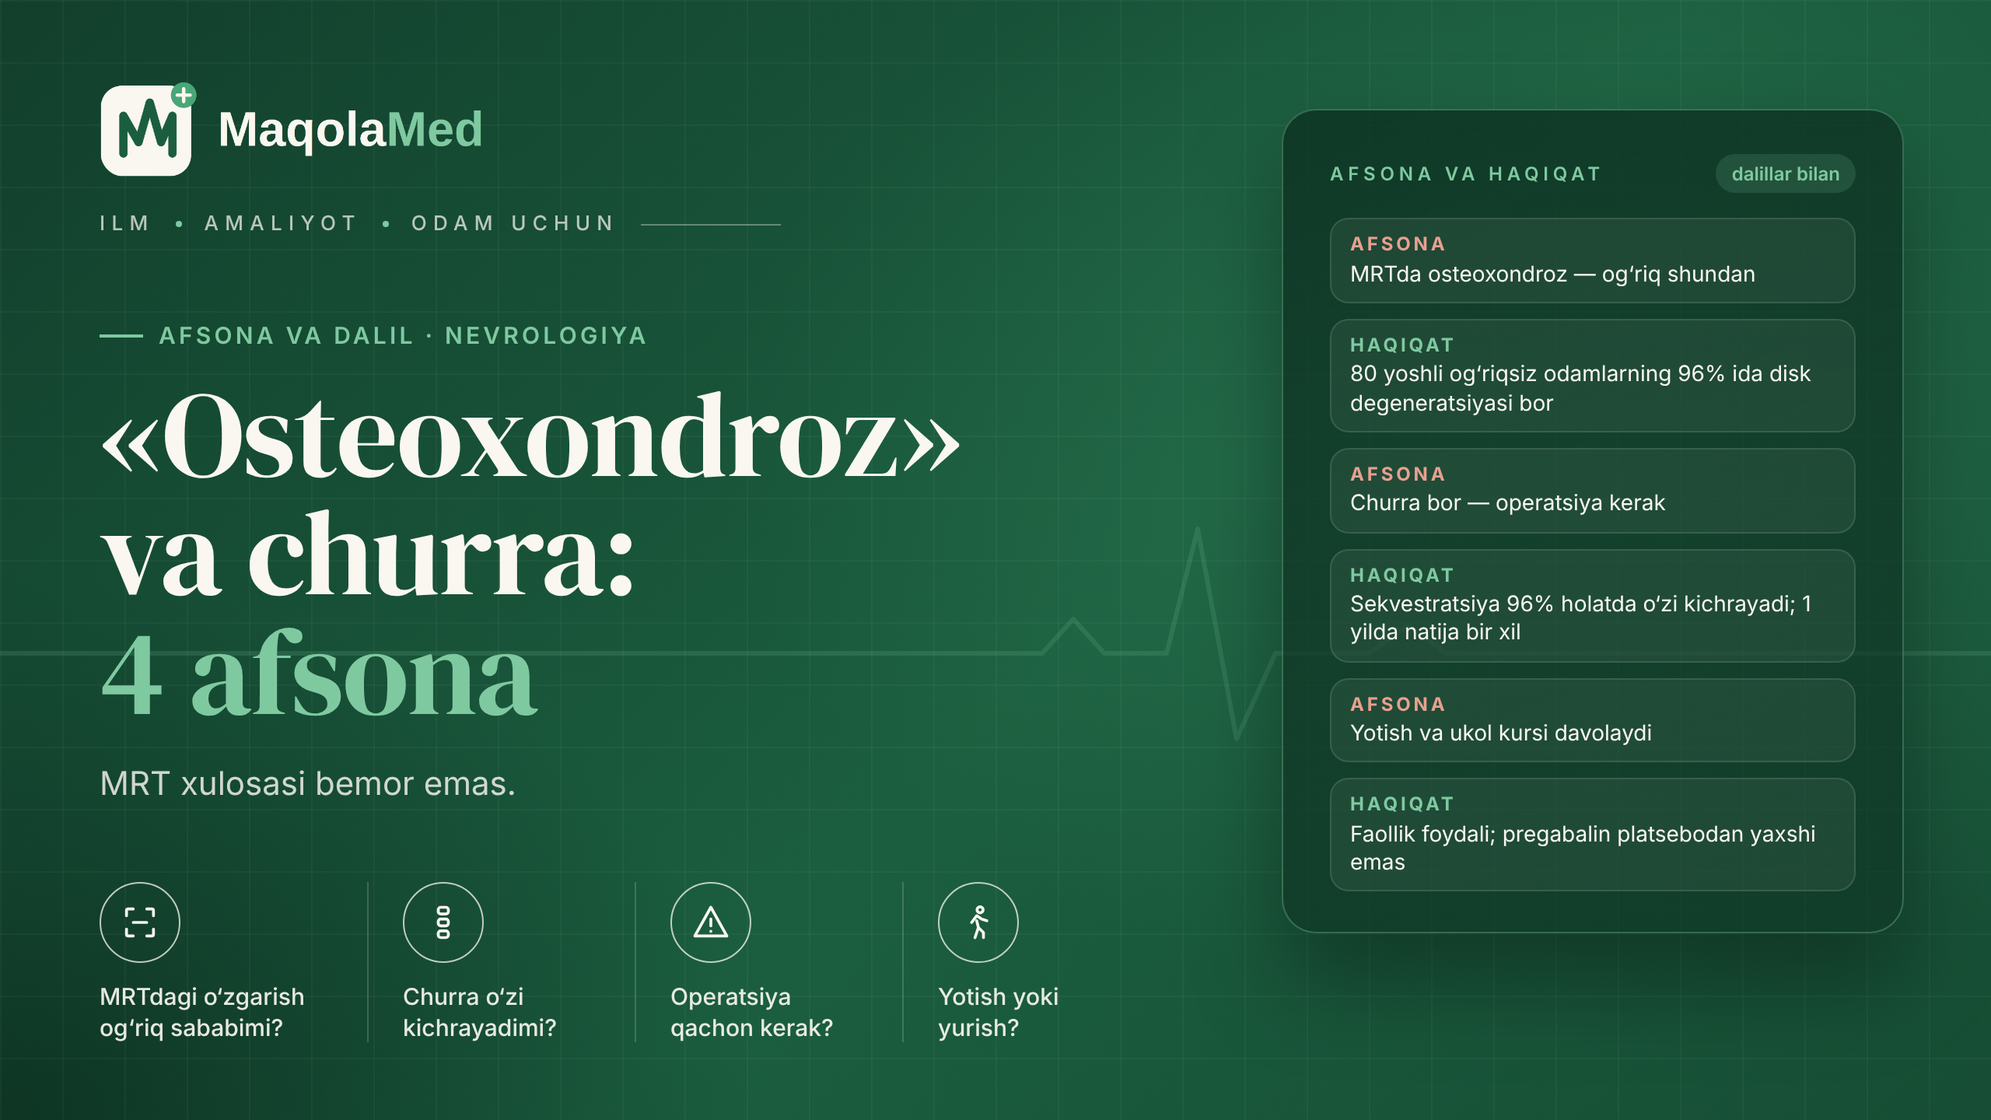
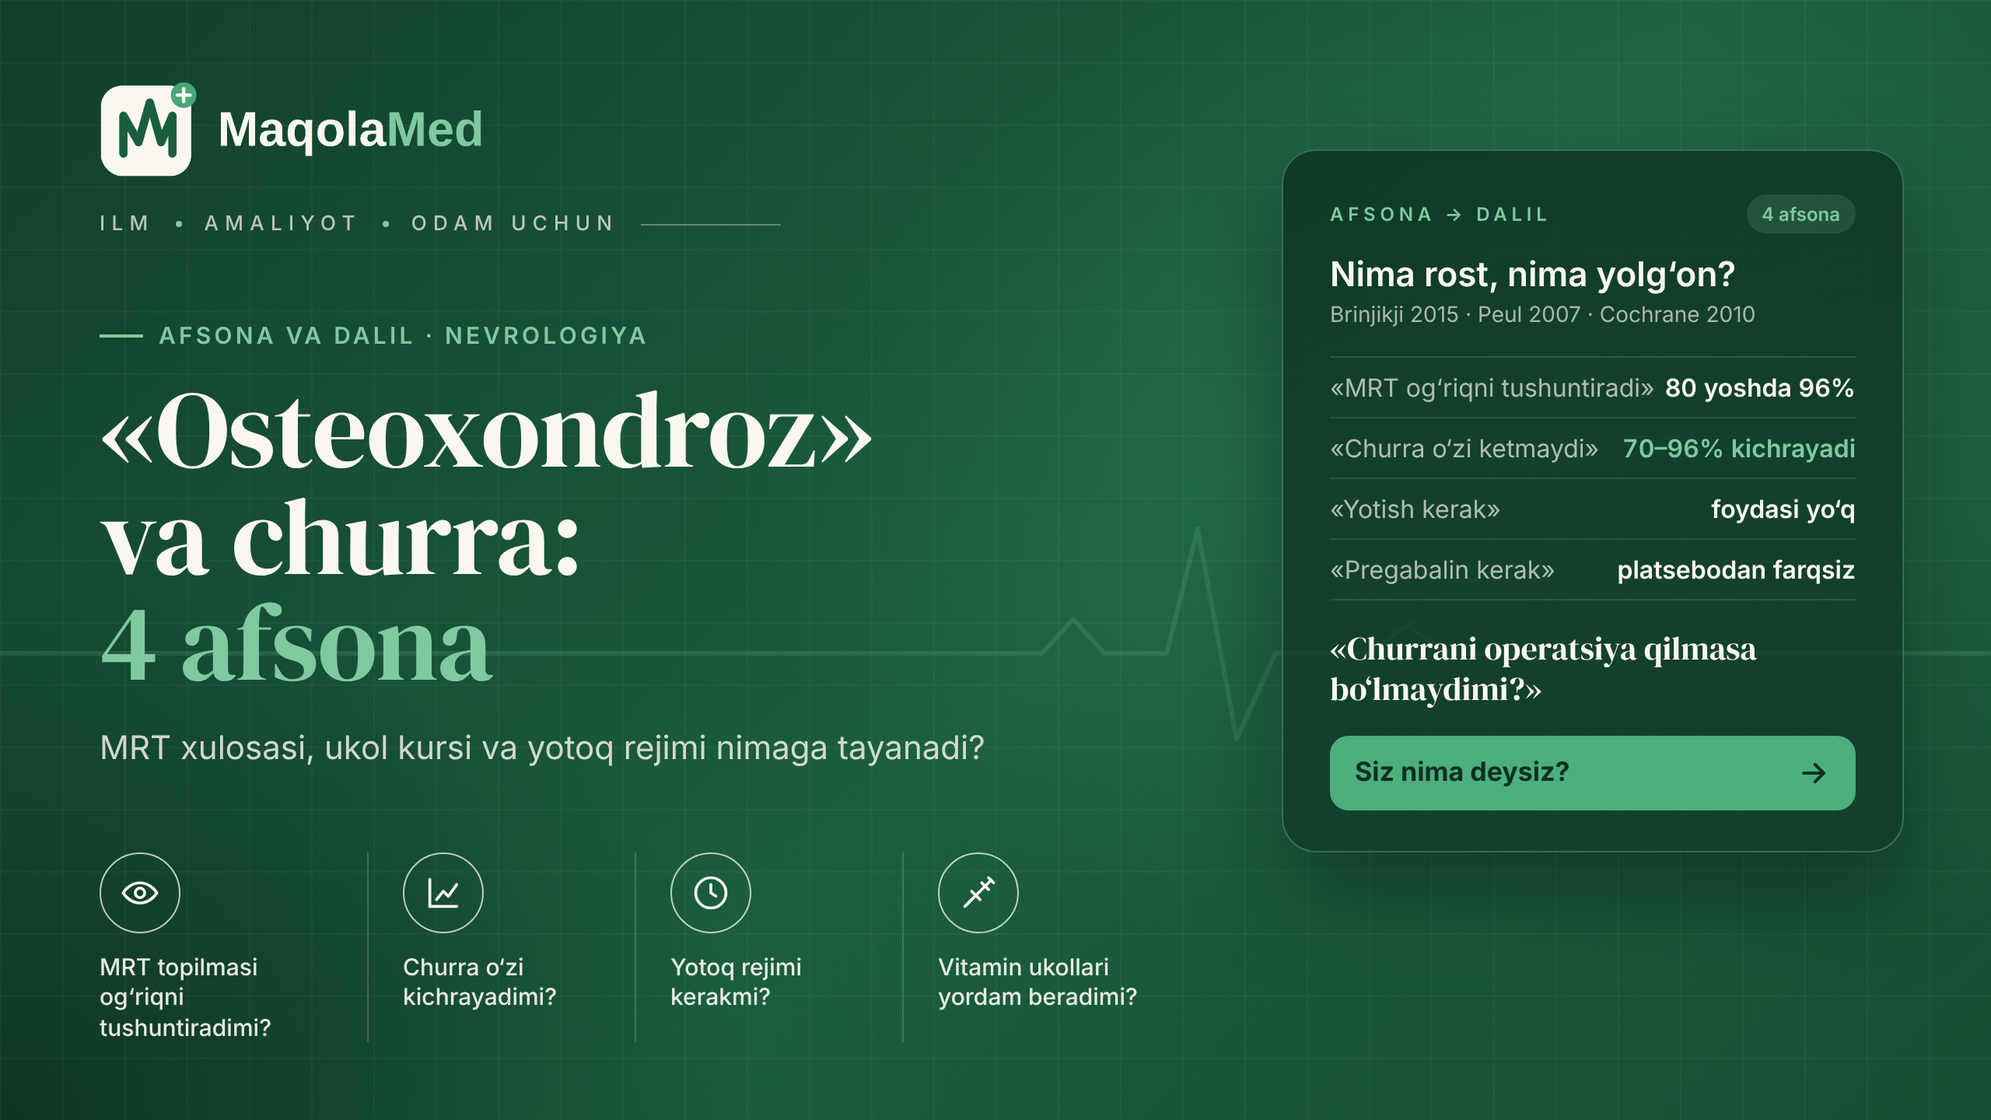
21-dekabr maqolasi qayta yozildi (v2, humanizer): osteoxondroz va churra — muqovalar, 1 rasm

diff --git a/_manba/2026-12-21/muqova-instagram-4x5.html b/_manba/2026-12-21/muqova-instagram-4x5.html
@@ -1,0 +1,87 @@
+<!doctype html>
+<html lang="uz">
+<head><base href="file:///home/claude/maqolamed-rasmlar/_shablon/">
+<meta charset="utf-8">
+<style>
+@font-face{font-family:"DM Serif Display";src:url("fonts/dm-serif-display-latin-400-normal.woff2") format("woff2");}
+@font-face{font-family:"DM Serif Display";src:url("fonts/dm-serif-display-latin-ext-400-normal.woff2") format("woff2");unicode-range:U+0100-024F,U+1E00-1EFF;}
+:root{
+  --emerald:#1B5E3F; --deep:#0D3122; --cream:#FAF7F0; --mint:#7FC9A0; --green:#4CAF7D;
+}
+*{margin:0;padding:0;box-sizing:border-box}
+html,body{width:1280px;height:720px;overflow:hidden;background:var(--deep)}
+.cover{position:relative;width:1280px;height:720px;overflow:hidden;font-family:"Inter",sans-serif;color:var(--cream);
+  background:
+    radial-gradient(900px 600px at 78% 40%, rgba(76,175,125,.22), transparent 60%),
+    radial-gradient(700px 500px at 0% 100%, rgba(13,49,34,.9), transparent 70%),
+    linear-gradient(135deg,#123F2C 0%, #1B5E3F 55%, #164D34 100%);}
+.grid{position:absolute;inset:0;background-image:
+    linear-gradient(rgba(250,247,240,.035) 1px,transparent 1px),
+    linear-gradient(90deg,rgba(250,247,240,.035) 1px,transparent 1px);
+  background-size:40px 40px;}
+.ekg{position:absolute;left:0;top:300px;width:1280px;height:200px;opacity:.16}
+.left{position:absolute;left:64px;top:52px;width:690px}
+.brand{display:flex;align-items:center;gap:28px}
+.brand img{height:62px;display:block}
+.tag{display:flex;align-items:center;gap:14px;font-size:13px;letter-spacing:.32em;color:rgba(250,247,240,.72);font-weight:500}
+.tag i{width:4px;height:4px;border-radius:50%;background:var(--mint);display:inline-block}
+.tag .line{width:90px;height:1px;background:rgba(250,247,240,.35)}
+.kicker{margin-top:54px;display:inline-flex;align-items:center;gap:10px;font-size:15px;font-weight:600;letter-spacing:.14em;text-transform:uppercase;color:var(--mint)}
+.kicker span{display:inline-block;width:28px;height:2px;background:var(--mint)}
+h1{margin-top:16px;font-family:"DM Serif Display",serif;font-weight:400;font-size:78px;line-height:.98;letter-spacing:-.01em;color:var(--cream)}
+h1 em{font-style:normal;color:var(--mint)}
+.sub{margin-top:22px;font-size:21px;color:rgba(250,247,240,.82);font-weight:400}
+.points{position:absolute;left:64px;bottom:50px;display:flex;gap:0}
+.pt{width:172px;padding-right:18px;display:flex;flex-direction:column;align-items:flex-start;gap:12px}
+.pt + .pt{padding-left:22px;border-left:1px solid rgba(250,247,240,.18)}
+.ic{width:52px;height:52px;border-radius:50%;border:1.6px solid rgba(250,247,240,.75);display:grid;place-items:center}
+.ic svg{width:26px;height:26px;stroke:var(--cream);fill:none;stroke-width:1.7;stroke-linecap:round;stroke-linejoin:round}
+.pt p{font-size:15px;line-height:1.3;color:rgba(250,247,240,.92);font-weight:500}
+.card{position:absolute;right:56px;top:96px;width:400px;border-radius:22px;padding:28px 30px 26px;
+  background:linear-gradient(160deg,rgba(13,49,34,.82),rgba(13,49,34,.62));
+  border:1px solid rgba(127,201,160,.35);box-shadow:0 30px 60px rgba(0,0,0,.35)}
+.card .ch{display:flex;justify-content:space-between;align-items:center}
+.card .lbl{font-size:12px;letter-spacing:.24em;font-weight:600;color:var(--mint)}
+.card .pill{font-size:12px;font-weight:600;padding:5px 10px;border-radius:999px;background:rgba(127,201,160,.16);color:var(--mint)}
+.card h3{margin-top:14px;font-size:22px;font-weight:600}
+.card h3 small{display:block;margin-top:4px;font-size:14px;font-weight:400;color:rgba(250,247,240,.65)}
+.rows{margin-top:18px;border-top:1px solid rgba(250,247,240,.14)}
+.row{display:flex;justify-content:space-between;padding:9px 0;border-bottom:1px solid rgba(250,247,240,.10);font-size:16px}
+.row span:first-child{color:rgba(250,247,240,.68)}
+.row span:last-child{font-weight:600;font-variant-numeric:tabular-nums}
+.row .ok{color:var(--mint)}
+.quote{margin-top:18px;font-family:"DM Serif Display",serif;font-size:21px;line-height:1.25;color:var(--cream)}
+.ask{margin-top:16px;display:flex;align-items:center;justify-content:space-between;padding:13px 16px;border-radius:12px;background:var(--green);color:#0D3122;font-weight:700;font-size:17px}
+.ask svg{width:22px;height:22px;stroke:#0D3122;fill:none;stroke-width:2.2;stroke-linecap:round;stroke-linejoin:round}
+
+html,body{width:1080px;height:1350px}
+.cover{width:1080px;height:1350px}
+.ekg{top:525px;width:1080px}
+.left{left:72px;top:64px;width:940px}
+.brand img{height:72px}
+h1{font-size:96px;margin-top:18px}
+.kicker{margin-top:56px;font-size:17px}
+.sub{font-size:24px}
+.card{left:72px;right:72px;top:auto;bottom:250px;width:auto;padding:30px 34px}
+.rows{display:grid;grid-template-columns:1fr 1fr;column-gap:40px}
+.quote{font-size:24px}
+.points{left:72px;right:72px;bottom:60px}
+.pt{width:auto;flex:1}
+.pt p{font-size:17px}
+
+
+
+h1{font-size:96px}
+</style>
+</head>
+<body><div class="cover"><div class="grid"></div>
+<svg class="ekg" viewBox="0 0 1280 200" preserveAspectRatio="none"><polyline fill="none" stroke="#7FC9A0" stroke-width="3" stroke-linejoin="round" stroke-linecap="round" points="0,120 640,120 670,120 690,98 710,120 750,120 770,40 795,175 820,120 880,120 905,102 930,120 1280,120"/></svg>
+<div class="left"><div class="brand"><img src="logo_dark_bg.png" alt="MaqolaMed"></div>
+<div class="tag" style="margin-top:22px"><span>ILM</span><i></i><span>AMALIYOT</span><i></i><span>ODAM UCHUN</span><span class="line"></span></div>
+<div class="kicker"><span></span>Afsona va dalil · Nevrologiya</div>
+<h1>«Osteoxondroz»<br>va churra:<br><em>4 afsona</em></h1>
+<div class="sub">MRT xulosasi, ukol kursi va yotoq rejimi nimaga tayanadi?</div></div>
+<div class="points"><div class="pt"><div class="ic"><svg viewBox="0 0 24 24"><path d="M2 12s3.5-6 10-6 10 6 10 6-3.5 6-10 6S2 12 2 12z"/><circle cx="12" cy="12" r="2.8"/></svg></div><p>MRT topilmasi og‘riqni tushuntiradimi?</p></div><div class="pt"><div class="ic"><svg viewBox="0 0 24 24"><path d="M4 20V4"/><path d="M4 20h16"/><path d="M8 16l4-5 3 3 5-7"/></svg></div><p>Churra o‘zi kichrayadimi?</p></div><div class="pt"><div class="ic"><svg viewBox="0 0 24 24"><circle cx="12" cy="12" r="9"/><path d="M12 7v5l3 2"/></svg></div><p>Yotoq rejimi kerakmi?</p></div><div class="pt"><div class="ic"><svg viewBox="0 0 24 24"><path d="M18 3l3 3"/><path d="M19.5 4.5l-9 9"/><path d="M14 6l4 4"/><path d="M10.5 13.5l-4 4"/><path d="M6.5 17.5L4 20"/><path d="M8 11l5 5"/></svg></div><p>Vitamin ukollari yordam beradimi?</p></div></div>
+<div class="card"><div class="ch"><span class="lbl">AFSONA → DALIL</span><span class="pill">4 afsona</span></div>
+<h3>Nima rost, nima yolg‘on?<small>Brinjikji 2015 · Peul 2007 · Cochrane 2010</small></h3><div class="rows"><div class="row"><span>«MRT og‘riqni tushuntiradi»</span><span class="">80 yoshda 96%</span></div><div class="row"><span>«Churra o‘zi ketmaydi»</span><span class="ok">70–96% kichrayadi</span></div><div class="row"><span>«Yotish kerak»</span><span class="">foydasi yo‘q</span></div><div class="row"><span>«Pregabalin kerak»</span><span class="">platsebodan farqsiz</span></div></div><div class="quote">«Churrani operatsiya qilmasa bo‘lmaydimi?»</div><div class="ask">Siz nima deysiz?<svg viewBox="0 0 24 24"><path d="M5 12h14"/><path d="M13 6l6 6-6 6"/></svg></div></div>
+</div></body></html>

diff --git a/_manba/2026-12-21/muqova-16x9.html b/_manba/2026-12-21/muqova-16x9.html
@@ -1,0 +1,70 @@
+<!doctype html>
+<html lang="uz">
+<head><base href="file:///home/claude/maqolamed-rasmlar/_shablon/">
+<meta charset="utf-8">
+<style>
+@font-face{font-family:"DM Serif Display";src:url("fonts/dm-serif-display-latin-400-normal.woff2") format("woff2");}
+@font-face{font-family:"DM Serif Display";src:url("fonts/dm-serif-display-latin-ext-400-normal.woff2") format("woff2");unicode-range:U+0100-024F,U+1E00-1EFF;}
+:root{
+  --emerald:#1B5E3F; --deep:#0D3122; --cream:#FAF7F0; --mint:#7FC9A0; --green:#4CAF7D;
+}
+*{margin:0;padding:0;box-sizing:border-box}
+html,body{width:1280px;height:720px;overflow:hidden;background:var(--deep)}
+.cover{position:relative;width:1280px;height:720px;overflow:hidden;font-family:"Inter",sans-serif;color:var(--cream);
+  background:
+    radial-gradient(900px 600px at 78% 40%, rgba(76,175,125,.22), transparent 60%),
+    radial-gradient(700px 500px at 0% 100%, rgba(13,49,34,.9), transparent 70%),
+    linear-gradient(135deg,#123F2C 0%, #1B5E3F 55%, #164D34 100%);}
+.grid{position:absolute;inset:0;background-image:
+    linear-gradient(rgba(250,247,240,.035) 1px,transparent 1px),
+    linear-gradient(90deg,rgba(250,247,240,.035) 1px,transparent 1px);
+  background-size:40px 40px;}
+.ekg{position:absolute;left:0;top:300px;width:1280px;height:200px;opacity:.16}
+.left{position:absolute;left:64px;top:52px;width:690px}
+.brand{display:flex;align-items:center;gap:28px}
+.brand img{height:62px;display:block}
+.tag{display:flex;align-items:center;gap:14px;font-size:13px;letter-spacing:.32em;color:rgba(250,247,240,.72);font-weight:500}
+.tag i{width:4px;height:4px;border-radius:50%;background:var(--mint);display:inline-block}
+.tag .line{width:90px;height:1px;background:rgba(250,247,240,.35)}
+.kicker{margin-top:54px;display:inline-flex;align-items:center;gap:10px;font-size:15px;font-weight:600;letter-spacing:.14em;text-transform:uppercase;color:var(--mint)}
+.kicker span{display:inline-block;width:28px;height:2px;background:var(--mint)}
+h1{margin-top:16px;font-family:"DM Serif Display",serif;font-weight:400;font-size:78px;line-height:.98;letter-spacing:-.01em;color:var(--cream)}
+h1 em{font-style:normal;color:var(--mint)}
+.sub{margin-top:22px;font-size:21px;color:rgba(250,247,240,.82);font-weight:400}
+.points{position:absolute;left:64px;bottom:50px;display:flex;gap:0}
+.pt{width:172px;padding-right:18px;display:flex;flex-direction:column;align-items:flex-start;gap:12px}
+.pt + .pt{padding-left:22px;border-left:1px solid rgba(250,247,240,.18)}
+.ic{width:52px;height:52px;border-radius:50%;border:1.6px solid rgba(250,247,240,.75);display:grid;place-items:center}
+.ic svg{width:26px;height:26px;stroke:var(--cream);fill:none;stroke-width:1.7;stroke-linecap:round;stroke-linejoin:round}
+.pt p{font-size:15px;line-height:1.3;color:rgba(250,247,240,.92);font-weight:500}
+.card{position:absolute;right:56px;top:96px;width:400px;border-radius:22px;padding:28px 30px 26px;
+  background:linear-gradient(160deg,rgba(13,49,34,.82),rgba(13,49,34,.62));
+  border:1px solid rgba(127,201,160,.35);box-shadow:0 30px 60px rgba(0,0,0,.35)}
+.card .ch{display:flex;justify-content:space-between;align-items:center}
+.card .lbl{font-size:12px;letter-spacing:.24em;font-weight:600;color:var(--mint)}
+.card .pill{font-size:12px;font-weight:600;padding:5px 10px;border-radius:999px;background:rgba(127,201,160,.16);color:var(--mint)}
+.card h3{margin-top:14px;font-size:22px;font-weight:600}
+.card h3 small{display:block;margin-top:4px;font-size:14px;font-weight:400;color:rgba(250,247,240,.65)}
+.rows{margin-top:18px;border-top:1px solid rgba(250,247,240,.14)}
+.row{display:flex;justify-content:space-between;padding:9px 0;border-bottom:1px solid rgba(250,247,240,.10);font-size:16px}
+.row span:first-child{color:rgba(250,247,240,.68)}
+.row span:last-child{font-weight:600;font-variant-numeric:tabular-nums}
+.row .ok{color:var(--mint)}
+.quote{margin-top:18px;font-family:"DM Serif Display",serif;font-size:21px;line-height:1.25;color:var(--cream)}
+.ask{margin-top:16px;display:flex;align-items:center;justify-content:space-between;padding:13px 16px;border-radius:12px;background:var(--green);color:#0D3122;font-weight:700;font-size:17px}
+.ask svg{width:22px;height:22px;stroke:#0D3122;fill:none;stroke-width:2.2;stroke-linecap:round;stroke-linejoin:round}
+
+h1{font-size:70px}
+</style>
+</head>
+<body><div class="cover"><div class="grid"></div>
+<svg class="ekg" viewBox="0 0 1280 200" preserveAspectRatio="none"><polyline fill="none" stroke="#7FC9A0" stroke-width="3" stroke-linejoin="round" stroke-linecap="round" points="0,120 640,120 670,120 690,98 710,120 750,120 770,40 795,175 820,120 880,120 905,102 930,120 1280,120"/></svg>
+<div class="left"><div class="brand"><img src="logo_dark_bg.png" alt="MaqolaMed"></div>
+<div class="tag" style="margin-top:22px"><span>ILM</span><i></i><span>AMALIYOT</span><i></i><span>ODAM UCHUN</span><span class="line"></span></div>
+<div class="kicker"><span></span>Afsona va dalil · Nevrologiya</div>
+<h1>«Osteoxondroz»<br>va churra:<br><em>4 afsona</em></h1>
+<div class="sub">MRT xulosasi, ukol kursi va yotoq rejimi nimaga tayanadi?</div></div>
+<div class="points"><div class="pt"><div class="ic"><svg viewBox="0 0 24 24"><path d="M2 12s3.5-6 10-6 10 6 10 6-3.5 6-10 6S2 12 2 12z"/><circle cx="12" cy="12" r="2.8"/></svg></div><p>MRT topilmasi og‘riqni tushuntiradimi?</p></div><div class="pt"><div class="ic"><svg viewBox="0 0 24 24"><path d="M4 20V4"/><path d="M4 20h16"/><path d="M8 16l4-5 3 3 5-7"/></svg></div><p>Churra o‘zi kichrayadimi?</p></div><div class="pt"><div class="ic"><svg viewBox="0 0 24 24"><circle cx="12" cy="12" r="9"/><path d="M12 7v5l3 2"/></svg></div><p>Yotoq rejimi kerakmi?</p></div><div class="pt"><div class="ic"><svg viewBox="0 0 24 24"><path d="M18 3l3 3"/><path d="M19.5 4.5l-9 9"/><path d="M14 6l4 4"/><path d="M10.5 13.5l-4 4"/><path d="M6.5 17.5L4 20"/><path d="M8 11l5 5"/></svg></div><p>Vitamin ukollari yordam beradimi?</p></div></div>
+<div class="card"><div class="ch"><span class="lbl">AFSONA → DALIL</span><span class="pill">4 afsona</span></div>
+<h3>Nima rost, nima yolg‘on?<small>Brinjikji 2015 · Peul 2007 · Cochrane 2010</small></h3><div class="rows"><div class="row"><span>«MRT og‘riqni tushuntiradi»</span><span class="">80 yoshda 96%</span></div><div class="row"><span>«Churra o‘zi ketmaydi»</span><span class="ok">70–96% kichrayadi</span></div><div class="row"><span>«Yotish kerak»</span><span class="">foydasi yo‘q</span></div><div class="row"><span>«Pregabalin kerak»</span><span class="">platsebodan farqsiz</span></div></div><div class="quote">«Churrani operatsiya qilmasa bo‘lmaydimi?»</div><div class="ask">Siz nima deysiz?<svg viewBox="0 0 24 24"><path d="M5 12h14"/><path d="M13 6l6 6-6 6"/></svg></div></div>
+</div></body></html>

diff --git a/_manba/2026-12-21/1-rasm.html b/_manba/2026-12-21/1-rasm.html
@@ -1,0 +1,64 @@
+<!doctype html><html lang="uz"><head><meta charset="utf-8"><base href="file:///home/claude/maqolamed-rasmlar/_shablon/">
+<style>
+@font-face{font-family:"DM Serif Display";src:url("fonts/dm-serif-display-latin-400-normal.woff2") format("woff2");}
+@font-face{font-family:"DM Serif Display";src:url("fonts/dm-serif-display-latin-ext-400-normal.woff2") format("woff2");unicode-range:U+0100-024F,U+1E00-1EFF;}
+:root{--emerald:#1B5E3F;--deep:#0D3122;--cream:#FAF7F0;--mint:#7FC9A0;--green:#4CAF7D;--ink:#17322A;--muted:#5C6F66;--amber:#C98A2E;--amberbg:#FBF1E1;--red:#B5513F;--redbg:#F8E7E2;--tint:#E6F3EC}
+*{margin:0;padding:0;box-sizing:border-box}
+html,body{width:1280px;height:var(--H,900px);background:var(--cream);overflow:hidden}
+.fig{position:relative;width:1280px;height:var(--H,900px);padding:44px 56px;font-family:"Inter",sans-serif;color:var(--ink)}
+.top{display:flex;justify-content:space-between;align-items:flex-start;margin-bottom:28px}
+h1{font-family:"DM Serif Display",serif;font-weight:400;font-size:40px;line-height:1.05;color:var(--deep)}
+h1 em{font-style:normal;color:var(--green)}
+.brand{display:flex;align-items:center;gap:10px;font-weight:700;font-size:20px;color:var(--emerald)}
+.brand img{height:34px}.brand b{color:var(--green);font-weight:700}
+table{width:100%;border-collapse:separate;border-spacing:0 8px;font-size:16px;line-height:1.35}
+th{text-align:left;font-size:12px;letter-spacing:.14em;text-transform:uppercase;color:var(--muted);padding:0 18px 2px;font-weight:700}
+td{background:#fff;padding:13px 18px;vertical-align:middle}
+td:first-child{border-radius:12px 0 0 12px;font-weight:700;color:var(--deep)}
+td:last-child{border-radius:0 12px 12px 0}
+td.new{background:var(--tint)} td.same{background:#F1EEE6;color:var(--muted)}
+td.warn{background:var(--redbg)}
+.badge{display:inline-block;font-size:11px;font-weight:700;letter-spacing:.08em;padding:4px 9px;border-radius:999px;margin-right:8px;vertical-align:1px}
+.b-new{background:var(--emerald);color:var(--cream)} .b-same{background:#E2DED3;color:var(--muted)} .b-red{background:var(--red);color:#fff} .b-amb{background:var(--amber);color:#fff}
+.muted{color:var(--muted)}
+.node{border-radius:14px;padding:14px 18px;font-size:16px;line-height:1.38}
+.node b{display:block;font-size:17px;margin-bottom:3px}
+.n-dark{background:var(--emerald);color:var(--cream)} .n-deep{background:var(--deep);color:var(--cream)}
+.n-white{background:#fff;border:1.5px solid #BFDCCB} .n-amb{background:#fff;border:1.5px solid #EBD3A9} .n-red{background:var(--redbg);border:1.5px solid #E8C3BA}
+.tagc{display:inline-block;font-size:12px;font-weight:700;letter-spacing:.12em;text-transform:uppercase;padding:6px 12px;border-radius:999px}
+.t-g{background:#DDEFE5;color:var(--emerald)} .t-a{background:var(--amberbg);color:#8A5A14} .t-r{background:var(--redbg);color:var(--red)}
+.note{position:absolute;left:56px;right:56px;bottom:40px;padding:14px 18px;border-radius:12px;background:#EEF2EE;font-size:15px;line-height:1.4}
+.note b{color:var(--deep)}
+.src{position:absolute;right:56px;bottom:12px;font-size:12px;color:var(--muted)}
+.arrow{stroke:var(--emerald);stroke-width:2.2;fill:none}
+</style></head><body><style>:root{--H:640px}
+.panels{display:grid;grid-template-columns:1fr 1fr;gap:24px}
+.panel{background:#fff;border-radius:18px;padding:22px 26px;border:1.5px solid #BFDCCB}
+.panel h2{font-size:13px;letter-spacing:.14em;text-transform:uppercase;color:var(--emerald);margin-bottom:4px}
+.panel p.s{font-size:14px;color:var(--muted);margin-bottom:16px}
+.bar{margin:12px 0}
+.bar .l{display:flex;justify-content:space-between;font-size:15px;margin-bottom:5px}
+.bar .l b{color:var(--deep)}
+.track{height:16px;border-radius:8px;background:#EEF2EE;position:relative;overflow:hidden}
+.f1{position:absolute;left:0;top:0;bottom:0;background:var(--mint);border-radius:8px}
+.f2{position:absolute;left:0;top:0;bottom:0;background:var(--emerald);border-radius:8px}
+.leg{display:flex;gap:18px;font-size:13px;color:var(--muted);margin-top:14px}
+.leg i{display:inline-block;width:12px;height:12px;border-radius:3px;margin-right:6px;vertical-align:-1px}
+</style>
+<div class="fig"><div class="top"><h1>«Osteoxondroz» va churra:<br><em>MRT nimani ko‘rsatadi, churra nima bo‘ladi?</em></h1><div class="brand"><img src="icon.png" alt=""><span>Maqola<b>Med</b></span></div></div>
+<div class="panels">
+<div class="panel"><h2>Og‘riqsiz odamlarda MRT topilmalari [1]</h2><p class="s">3 110 kishi, 33 ta tadqiqot</p>
+<div class="bar"><div class="l"><span>Disk degeneratsiyasi</span><b>37% → 96%</b></div><div class="track"><div class="f2" style="width:96%"></div><div class="f1" style="width:37%"></div></div></div>
+<div class="bar"><div class="l"><span>Disk bo‘rtmasi</span><b>30% → 84%</b></div><div class="track"><div class="f2" style="width:84%"></div><div class="f1" style="width:30%"></div></div></div>
+<div class="bar"><div class="l"><span>Protruziya</span><b>29% → 43%</b></div><div class="track"><div class="f2" style="width:43%"></div><div class="f1" style="width:29%"></div></div></div>
+<div class="bar"><div class="l"><span>Annulus yorig‘i</span><b>19% → 29%</b></div><div class="track"><div class="f2" style="width:29%"></div><div class="f1" style="width:19%"></div></div></div>
+<div class="leg"><span><i style="background:var(--mint)"></i>20 yosh</span><span><i style="background:var(--emerald)"></i>80 yosh</span></div></div>
+<div class="panel"><h2>Churraning o‘z-o‘zidan kichrayishi [3]</h2><p class="s">Konservativ davo fonida, churra turiga ko‘ra</p>
+<div class="bar"><div class="l"><span>Sekvestratsiya</span><b>96%</b></div><div class="track"><div class="f2" style="width:96%"></div></div></div>
+<div class="bar"><div class="l"><span>Ekstruziya</span><b>70%</b></div><div class="track"><div class="f2" style="width:70%"></div></div></div>
+<div class="bar"><div class="l"><span>Protruziya</span><b>41%</b></div><div class="track"><div class="f2" style="width:41%"></div></div></div>
+<div class="bar"><div class="l"><span>Bo‘rtma</span><b>13%</b></div><div class="track"><div class="f2" style="width:13%"></div></div></div>
+<div class="leg"><span>To‘liq yo‘qolish: sekvestratsiyada 43%</span></div></div>
+</div>
+<div class="note"><b>Amaliy xulosa:</b> qizil bayroq bo‘lmasa, MRT topilmasi og‘riq sababini isbotlamaydi; katta churra ham ko‘pincha o‘zi kichrayadi.</div>
+<div class="src">Raqamlar maqoladagi manbalar ro‘yxatiga ishora qiladi.</div></div></body></html>
